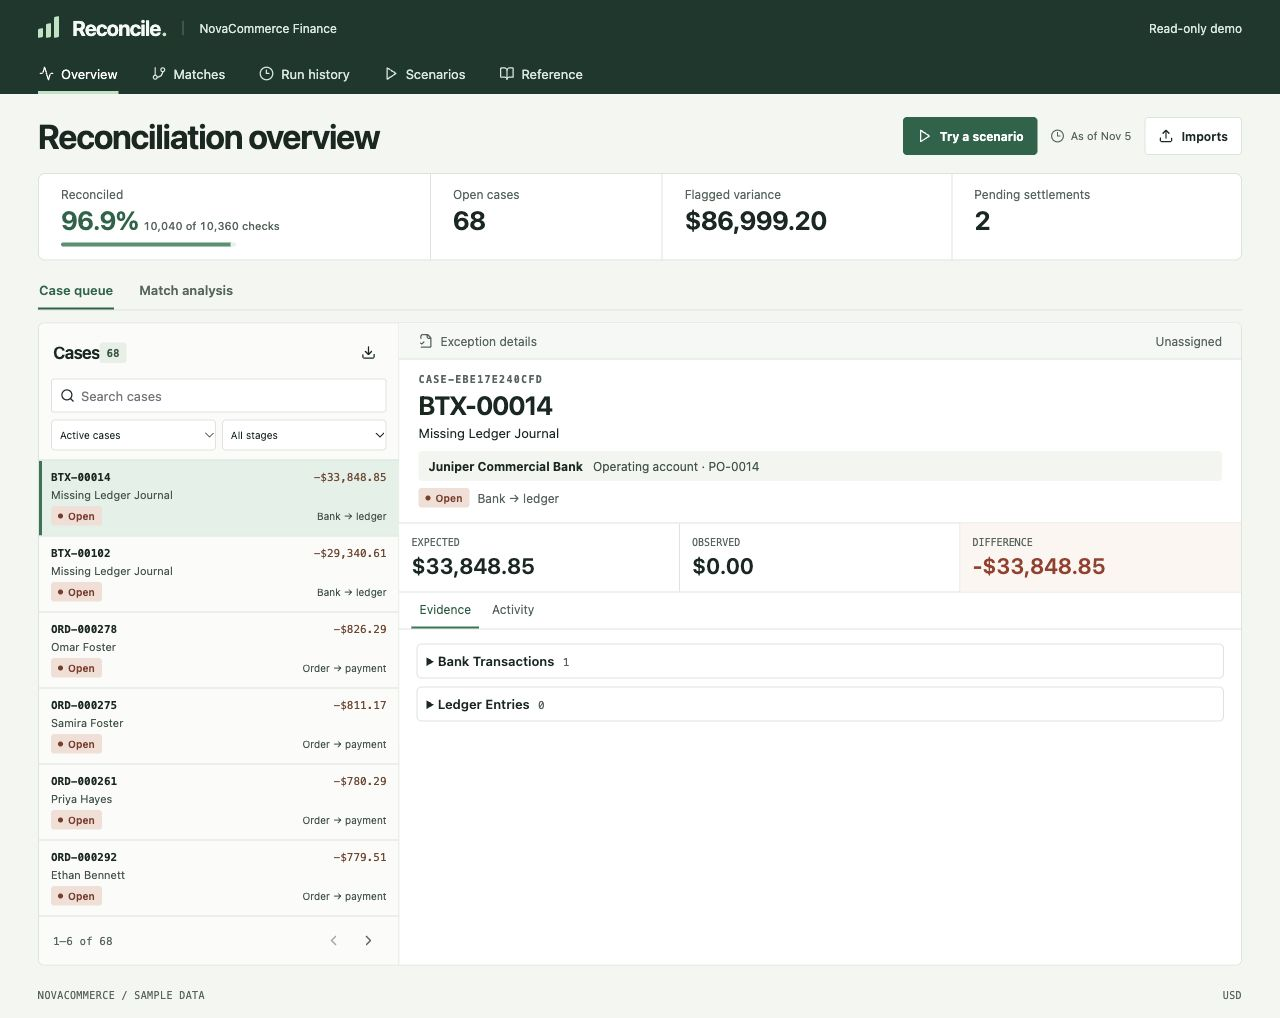
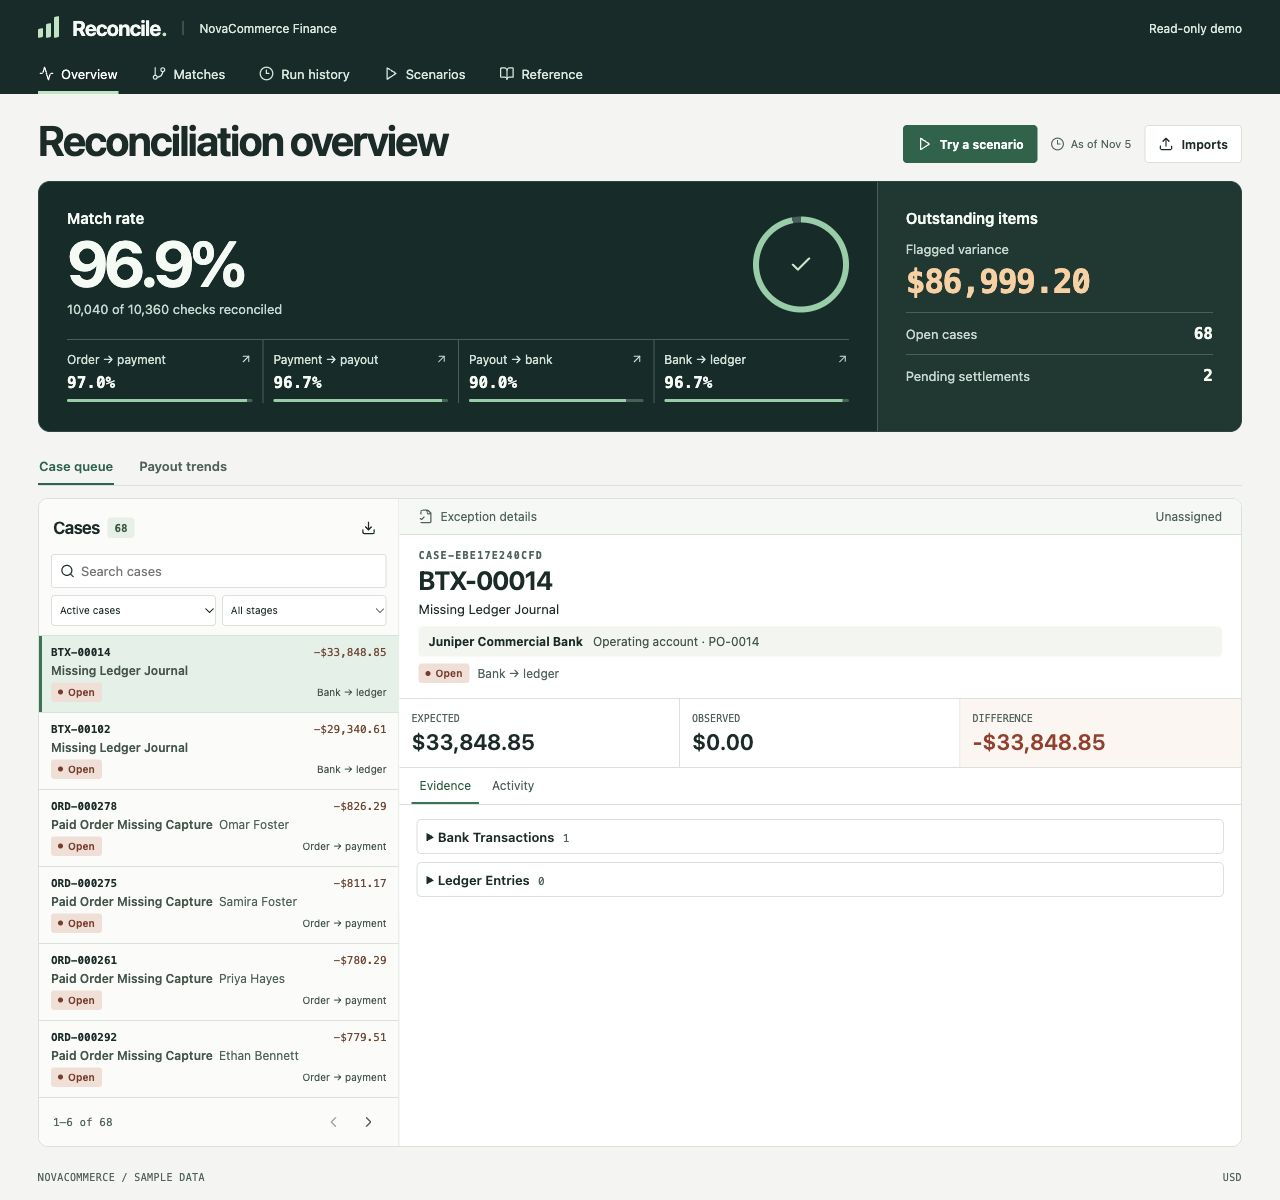
Build a finance scoreboard and outstanding items brief

diff --git a/frontend/src/styles.css b/frontend/src/styles.css
@@ -365,40 +365,98 @@ h1, h2, .brand { font-family: inherit; font-weight: 650; letter-spacing: -.035em
 .workspace-main { max-width: 1540px; margin: auto; padding-inline: clamp(14px, 3vw, 38px); }
 .workspace-heading { margin-bottom: 18px; }
 .workspace-heading h1 { font-size: clamp(24px, 3vw, 34px); }
-.balance-strip { display: grid; grid-template-columns: 1.35fr .8fr 1fr 1fr; background: #fff; border: 1px solid var(--line); border-radius: 7px; }
-.balance-strip > div { padding: 13px clamp(10px, 2vw, 22px); min-width: 0; }
-.balance-strip > div + div { border-left: 1px solid var(--line); }
-.balance-strip dt { font-size: 12px; color: var(--muted); }
-.balance-strip dd { margin: 4px 0 0; font-size: clamp(17px, 2.1vw, 26px); font-weight: 650; font-variant-numeric: tabular-nums; letter-spacing: -.025em; }
-.balance-strip small { display: inline-block; font-size: 11px; font-weight: 500; letter-spacing: normal; }
-.balance-match dd { color: var(--green); }
-.balance-meter { display: block; overflow: hidden; height: 4px; border-radius: 4px; background: var(--mint); }
-.balance-match .balance-meter { max-width: 175px; margin-top: 7px; }
-.balance-meter i { display: block; height: 100%; background: #4c9271; }
 .desk-tabs { display: flex; gap: 24px; margin: 12px 0; border-bottom: 1px solid var(--line); }
 .desk-tabs a { padding: 10px 1px; border-bottom: 2px solid transparent; font-size: 13px; font-weight: 600; color: var(--muted); }
 .desk-tabs a:hover, .desk-tabs a[aria-current=page] { color: var(--green); border-color: var(--green); }
 .case-spread { grid-template-columns: clamp(285px, 30%, 400px) minmax(0,1fr); }
 .case-sheet .panel-top { font-family: inherit; font-size: 12px; }
 .case-sheet .panel-content { max-height: none; }
-.analysis-sheet { display: grid; grid-template-columns: minmax(0, 1fr) minmax(0, 1.5fr); border: 1px solid var(--line); border-radius: 7px; overflow: hidden; background: #fff; }
-.stage-results, .analysis-sheet .settlement-chart { padding: 18px; }
-.stage-results { border-right: 1px solid var(--line); }
-.stage-results h2, .analysis-sheet h2 { font-size: 16px; }
-.stage-results button { display: grid; gap: 6px; width: 100%; padding: 10px 0; border-bottom: 1px solid var(--line); text-align: left; font-size: 13px; }
-.stage-results button:hover { color: var(--green); }
-.stage-results button > span:first-child { display: flex; align-items: center; justify-content: space-between; gap: 6px; }
-.stage-results small { display: inline; font-weight: 400; }
+
+/* The close summary and case ledger share the same finance palette. */
+:root {
+ --canvas: #f4f5f2;
+ --ink: #172b28;
+ --muted: #4c635d;
+ --line: #d8e1db;
+ --green: #16634e;
+}
+.workspace-header { background: #112c29; }
+.workspace-nav { gap: clamp(15px, 2.5vw, 32px); }
+.workspace-heading h1 { font-size: clamp(27px, 4vw, 42px); letter-spacing: -.045em; }
+.close-brief {
+ display: grid;
+ grid-template-columns: minmax(0, 2.3fr) minmax(235px, 1fr);
+ background: #102c29;
+ color: #f4faf5;
+ border: 1px solid #264541;
+ border-radius: 12px;
+ overflow: hidden;
+}
+.close-scoreboard { min-width: 0; padding: clamp(16px, 2.4vw, 28px); }
+.close-score { display: flex; align-items: center; justify-content: space-between; gap: 12px; padding-bottom: 20px; }
+.close-brief h2 { font-size: 15px; font-weight: 600; letter-spacing: 0; }
+.close-score strong {
+ display: block;
+ margin: 4px 0;
+ font-size: clamp(40px, 5vw, 66px);
+ font-weight: 650;
+ line-height: 1;
+ font-variant-numeric: tabular-nums;
+ letter-spacing: -.06em;
+}
+.close-score p { color: #c3d9cf; font-size: 13px; }
+.close-ring {
+ display: grid;
+ place-items: center;
+ flex: none;
+ width: clamp(60px, 8vw, 96px);
+ aspect-ratio: 1;
+ position: relative;
+ border-radius: 50%;
+ color: #bde9cc;
+ background: conic-gradient(#8bcea7 var(--reconciled), #3e6158 0);
+}
+.close-ring::before { content: ''; position: absolute; inset: 6px; border-radius: inherit; background: #102c29; }
+.close-ring svg { position: relative; }
+.close-stages { display: grid; grid-template-columns: repeat(4, minmax(0, 1fr)); border-top: 1px solid #42615a; }
+.close-stages button { display: grid; gap: 7px; padding: 12px 10px 1px; text-align: left; }
+.close-stages button:first-child { padding-left: 0; }
+.close-stages button:last-child { padding-right: 0; }
+.close-stages button + button { border-left: 1px solid #42615a; }
+.close-stages button:hover { background: #22453d; }
+.close-stages button:focus-visible { outline-color: #bde9cc; outline-offset: -2px; }
+.close-stages button > span:first-child { display: flex; align-items: center; justify-content: space-between; gap: 5px; font-size: 12px; color: #d0e2d9; }
+.close-stages svg { flex: none; }
+.close-stages strong { font: 600 16px var(--mono); }
+.balance-meter { display: block; overflow: hidden; height: 3px; border-radius: 4px; background: #3e6158; }
+.balance-meter i { display: block; height: 100%; background: #8bcea7; }
+.close-exposure { padding: clamp(16px, 2.4vw, 28px); border-left: 1px solid #42615a; background: #193832; }
+.close-exposure dl { margin-top: 4px; }
+.close-exposure dl > div { display: flex; justify-content: space-between; align-items: baseline; gap: 6px 12px; flex-wrap: wrap; padding: 11px 0; border-bottom: 1px solid #42615a; }
+.close-exposure dl > div:first-child { display: block; }
+.close-exposure dl > div:last-child { border: 0; padding-bottom: 0; }
+.close-exposure dt { color: #c3d9cf; font-size: 13px; }
+.close-exposure dd { font: 600 16px var(--mono); }
+.close-exposure dl > div:first-child dd { margin-top: 6px; color: #ffcf9d; font-size: clamp(20px, 2.8vw, 33px); letter-spacing: -.045em; }
+.desk-tabs { margin-top: 16px; }
+.case-spread { border-radius: 10px; }
+.index-title { justify-content: start; gap: 8px; }
+.index-finding { font-size: 12px; font-weight: 600; }
+.index-finding small { display: inline; margin-left: 6px; font-weight: 400; }
+.analysis-sheet { border: 1px solid var(--line); border-radius: 10px; overflow: hidden; background: #fff; }
+.analysis-sheet .settlement-chart { padding: clamp(14px, 3vw, 26px); }
+.analysis-sheet h2 { font-size: 18px; }
 .analysis-sheet .chart-total { font: 650 26px/1.2 system-ui, sans-serif; letter-spacing: -.03em; }
-.analysis-sheet .chart-bars { height: 120px; }
+.analysis-sheet .chart-bars { height: clamp(110px, 19vw, 220px); }
+@media (max-width: 850px) {
+ .close-stages { grid-template-columns: 1fr 1fr; gap: 8px 0; }
+ .close-stages button:nth-child(3) { padding-left: 0; border-left: 0; }
+}
 @media (max-width: 680px) {
  .workspace-heading { align-items: start; flex-direction: column; }
  .index-entries { max-height: 230px; }
- .guide-grid { grid-template-columns: 1fr; }
+ .guide-grid, .case-spread, .close-brief { grid-template-columns: minmax(0,1fr); }
  .workspace-name, .workspace-nav a svg { display: none; }
- .balance-strip { grid-template-columns: 1fr 1fr; }
- .balance-strip > div:nth-child(3) { border-left: 0; }
- .balance-strip > div:nth-child(n+3) { border-top: 1px solid var(--line); }
- .case-spread, .analysis-sheet { grid-template-columns: minmax(0,1fr); }
- .case-index, .stage-results { border-right: 0; border-bottom: 1px solid var(--line); }
+ .case-index { border-right: 0; border-bottom: 1px solid var(--line); }
+ .close-exposure { border-left: 0; border-top: 1px solid #42615a; }
 }

diff --git a/frontend/src/main.jsx b/frontend/src/main.jsx
@@ -110,7 +110,7 @@ function App(){
     <div className="page-actions">
      {isDesk&&publicDemo&&<button className="primary" onClick={()=>navigate('scenarios')}><Play size={15}/> Try a scenario</button>}
      {summary?.run?.as_of_date&&<span className="date-pill"><Clock3 size={14}/> As of {shortDate(summary.run.as_of_date)}</span>}
-     {isDesk&&<button className="secondary" onClick={()=>navigate('overview?panel=imports')}><Upload size={15}/> Imports</button>}
+     {isDesk&&<button className="secondary" onClick={()=>navigate(showAnalysis?'overview?view=analysis&panel=imports':'overview?panel=imports')}><Upload size={15}/> Imports</button>}
      {isDesk&&user.role==='approver'&&<button className="primary" disabled={running} onClick={run}>
       {running?<LoaderCircle size={16} className="spin"/>:<Play size={14}/>} {running?'Reconciling…':'Run reconciliation'}
      </button>}
@@ -126,7 +126,7 @@ function App(){
    <footer><span>NOVACOMMERCE / SAMPLE DATA</span><span>USD</span></footer>
   </main>
   </div>
-  {showImports&&<ImportsDialog user={user} refresh={refresh} revision={revision} close={()=>navigate('overview')}/>}
+  {showImports&&<ImportsDialog user={user} refresh={refresh} revision={revision} close={()=>navigate(showAnalysis?'overview?view=analysis':'overview')}/>}
   {toast&&<div className="toast" role="status"><CheckCircle2 size={18}/>{toast}</div>}
  </div>
 }
@@ -169,36 +169,44 @@ function DeskStatus({data,navigate,showAnalysis}){
  const matched=data.counts.reconciled||0;
  const rate=total?matched/total*100:0;
  return <>
-  <dl className="balance-strip" aria-label="Latest reconciliation">
-   <div className="balance-match">
-    <dt>Reconciled</dt>
-    <dd>{total?rate.toFixed(1)+'%':'—'} <small>{number(matched)} of {number(total)} checks</small></dd>
-    <div className="balance-meter" aria-hidden="true"><i style={{width:rate+'%'}}/></div>
+  <section className="close-brief" aria-label="Latest reconciliation">
+   <div className="close-scoreboard">
+    <div className="close-score">
+     <div>
+      <h2>Match rate</h2>
+      <strong>{total?rate.toFixed(1)+'%':'—'}</strong>
+      <p>{number(matched)} of {number(total)} checks reconciled</p>
+     </div>
+     <div className="close-ring" style={{'--reconciled':rate+'%'}} aria-hidden="true"><Check size={25}/></div>
+    </div>
+    <div className="close-stages" aria-label="Match rates by stage">
+     {Object.entries(STAGES).map(([key,label])=>{
+      const results=data.stages.filter(row=>row.stage===key);
+      const reconciled=results.find(row=>row.status==='reconciled')?.count||0;
+      const checks=results.reduce((sum,row)=>sum+row.count,0);
+      const stageRate=checks?reconciled/checks*100:0;
+      return <button key={key} onClick={()=>navigate('checks?stage='+key)}>
+       <span>{label}<ArrowUpRight size={13}/></span>
+       <strong>{checks?stageRate.toFixed(1)+'%':'—'}</strong>
+       <span className="balance-meter" aria-hidden="true"><i style={{width:stageRate+'%'}}/></span>
+      </button>
+     })}
+    </div>
    </div>
-   <div><dt>Open cases</dt><dd>{number(data.open_cases)}</dd></div>
-   <div><dt>Flagged variance</dt><dd>{money(data.flagged_variance_cents)}</dd></div>
-   <div><dt>Pending settlements</dt><dd>{number(data.counts.pending)}</dd></div>
-  </dl>
+   <div className="close-exposure">
+    <h2>Outstanding items</h2>
+    <dl>
+     <div><dt>Flagged variance</dt><dd>{money(data.flagged_variance_cents)}</dd></div>
+     <div><dt>Open cases</dt><dd>{number(data.open_cases)}</dd></div>
+     <div><dt>Pending settlements</dt><dd>{number(data.counts.pending)}</dd></div>
+    </dl>
+   </div>
+  </section>
   <nav className="desk-tabs" aria-label="Overview">
    <a href="#overview" aria-current={!showAnalysis?'page':undefined}>Case queue</a>
-   <a href="#overview?view=analysis" aria-current={showAnalysis?'page':undefined}>Match analysis</a>
+   <a href="#overview?view=analysis" aria-current={showAnalysis?'page':undefined}>Payout trends</a>
   </nav>
-  {showAnalysis&&<div className="analysis-sheet">
-   <div className="stage-results">
-    <h2>Matches by stage</h2>
-    {Object.entries(STAGES).map(([key,label])=>{
-     const results=data.stages.filter(row=>row.stage===key);
-     const matched=results.find(row=>row.status==='reconciled')?.count||0;
-     const total=results.reduce((sum,row)=>sum+row.count,0);
-     return <button key={key} onClick={()=>navigate('checks?stage='+key)}>
-      <span>{label}<ArrowUpRight size={14}/></span>
-      <strong>{number(matched)} <small>of {number(total)} reconciled</small></strong>
-      <span className="balance-meter" aria-hidden="true"><i style={{width:(total?matched/total*100:0)+'%'}}/></span>
-     </button>
-    })}
-   </div>
-   <SettlementChart trend={data.trend}/>
-  </div>}
+  {showAnalysis&&<div className="analysis-sheet"><SettlementChart trend={data.trend}/></div>}
  </>
 }
 
@@ -287,7 +295,7 @@ function CaseWorkspace({user,users,revision,refresh}){
    {error?<div className="error" role="alert">{error}</div>:!result?<Loading/>:result.items.length?<div className="index-entries">
     {result.items.map(item=><button key={item.id} className="index-entry" aria-pressed={item.id===active?.id} onClick={()=>openCase(item.id)}>
      <span className="index-entry-top"><strong>{item.entity_id}</strong><span>{money(item.variance_cents)}</span></span>
-     <span className="index-finding">{orderProfile(item.entity_id)?.customer?.name||human(item.type)}</span>
+     <span className="index-finding">{human(item.type)}{orderProfile(item.entity_id)?.customer?.name&&<small>{orderProfile(item.entity_id).customer.name}</small>}</span>
      <span className="index-entry-meta"><Badge status={item.status}/><span>{STAGES[item.stage]}</span></span>
     </button>)}
    </div>:<Empty title="No cases found" text=""/>}
